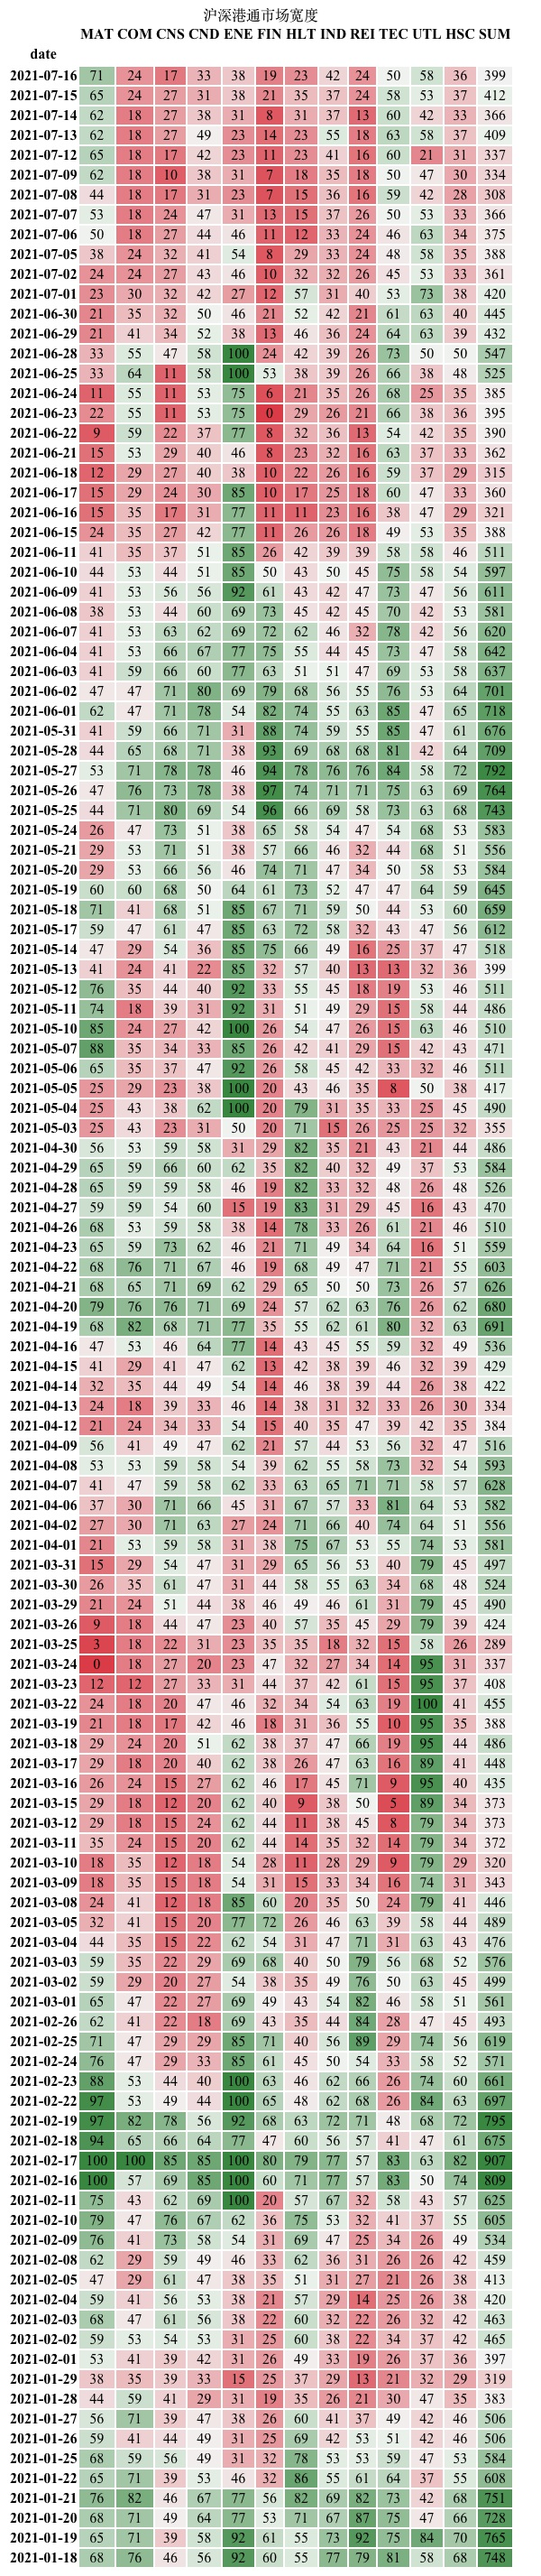
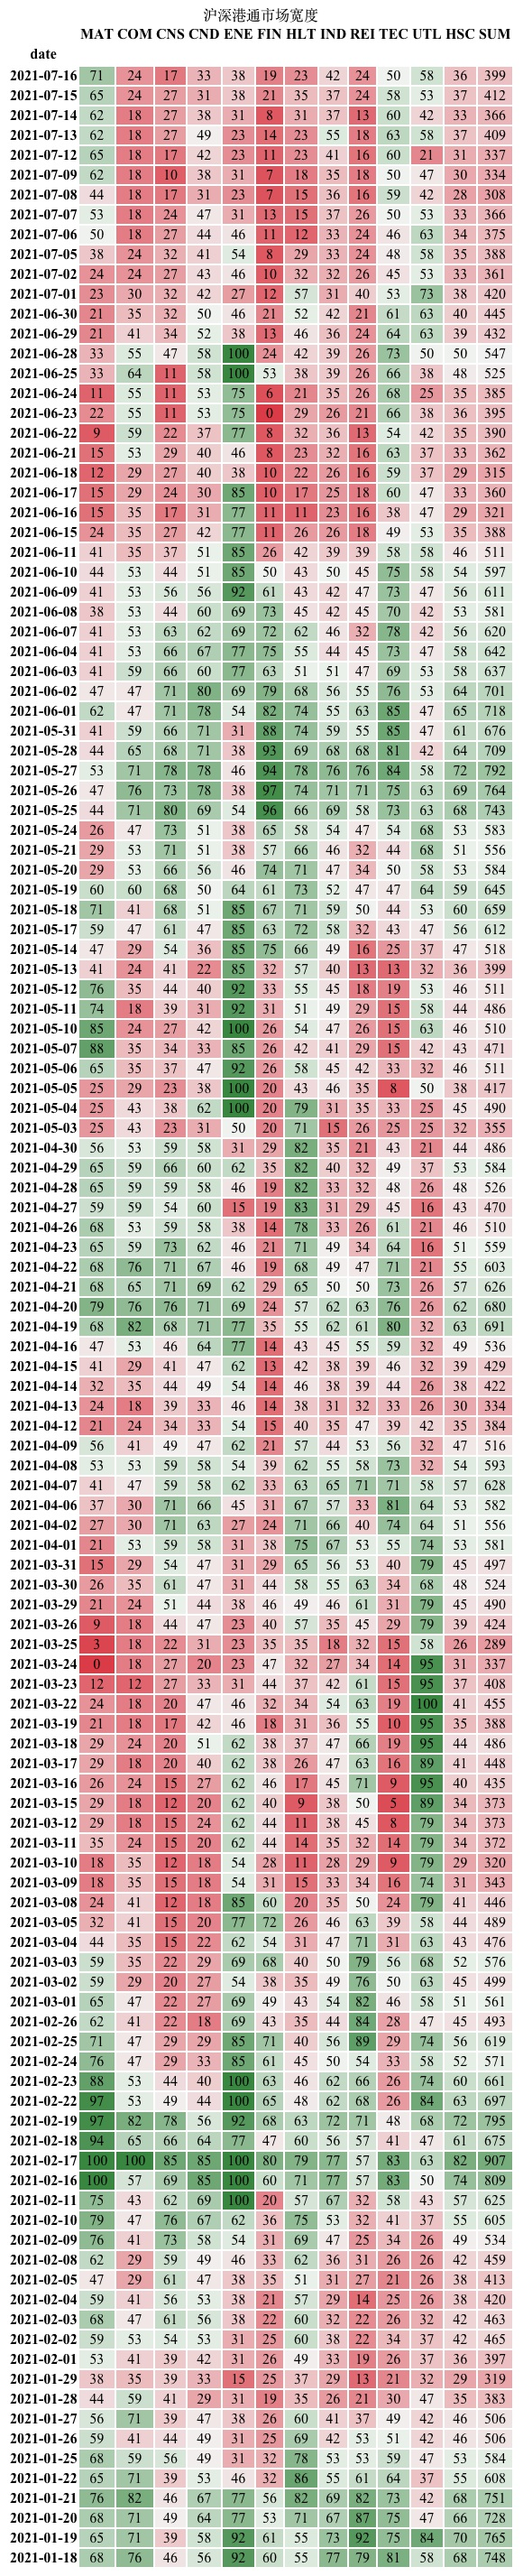
update the table background gradient

diff --git a/tools/util/analysis.py b/tools/util/analysis.py
@@ -181,7 +181,7 @@ def market_breadth(data, file, market='us', title=None):
     if data is None or data.empty:
         return None
     cm = sns.diverging_palette(10, 130, as_cmap=True)
-    options = {'encoding': "UTF-8", 'width': 600}
+    options = {'encoding': "UTF-8", 'width': 580}
     data = data.set_index('date')
     data = data.drop(data[data.isnull().T.any()].index)
     data = data.astype(int)
@@ -202,7 +202,7 @@ def market_breadth(data, file, market='us', title=None):
 
     html = data.style \
         .apply(_background_gradient, cmap=cm, m=0, M=100)\
-        .apply(_background_gradient, cmap=cm, m=0, M=800, subset='SUM') \
+        .apply(_background_gradient, cmap=cm, m=0, M=1100, subset='SUM') \
         .set_properties(**{'text-align': 'center'}) \
         .set_caption(caption) \
         .set_table_styles([text]) \
